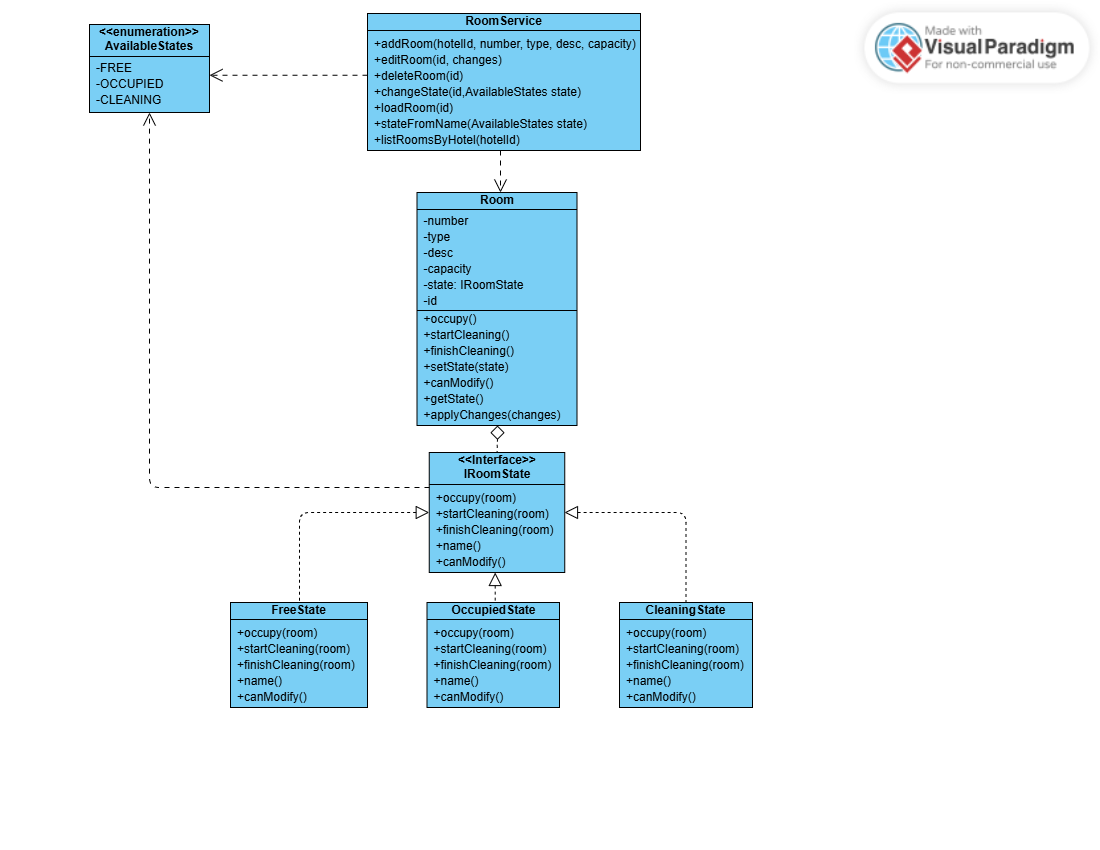
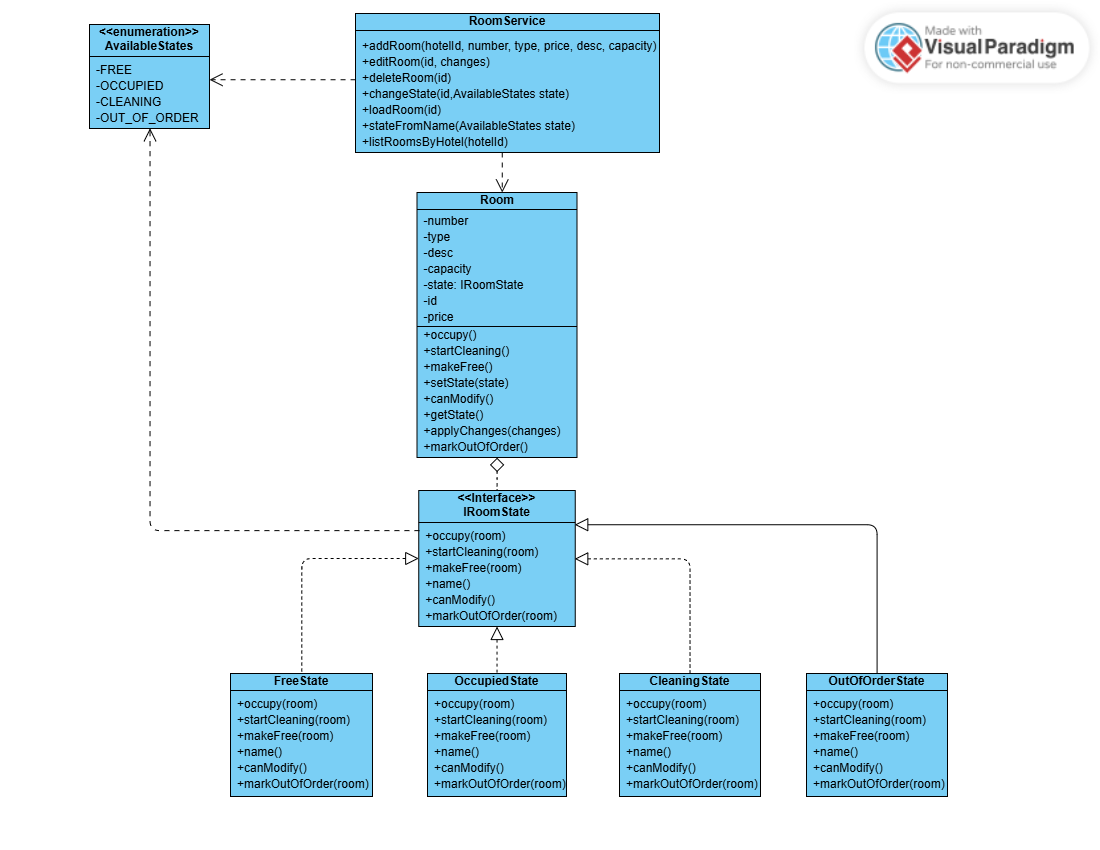
added out_of_order state, room price atribute

diff --git a/room-service/README.md b/room-service/README.md
@@ -7,23 +7,24 @@ Author: Jiri Kadlec
 enum AvailableStates {
   FREE,
   OCCUPIED,
-  CLEANING
+  CLEANING,
+  OUT_OF_ORDER,
 }
 
 class RoomService {
   db; //přístup do databáze
 
-  addRoom(int hotelId, int number, string type, string desc, int capacity) {
+  addRoom(int hotelId, int number, string type, int price, string desc, int capacity) {
     //zápis do databáze, vrácení id
-    id = db.insertRoom(hotelId, number, type, desc, capacity, AvailableStates.FREE);
+    id = db.insertRoom(hotelId, number, type, price, desc, capacity, AvailableStates.FREE);
 
-    room = new Room(id, number, type, desc, capacity, FreeState.instance);
+    room = new Room(id, number, type, price, desc, capacity, FreeState.instance);
     return room;
   }
 
   loadRoom(int id) {
     data = db.selectRoom(id);
-    room = new Room(data.id, data.number, data.type, data.desc, data.capacity, stateFromName(data.state));
+    room = new Room(data.id, data.number, data.type, data.price, data.desc, data.capacity, stateFromName(data.state));
 
     return room;
   }
@@ -32,7 +33,8 @@ class RoomService {
     switch(state) {
     FREE => FreeState.instance,
     OCCUPIED => OccupiedState.instance,
-    CLEANING => CleaningState.instance
+    CLEANING => CleaningState.instance,
+    OUT_OF_ORDER => OutOfOrderState.instance
     };
   }
 
@@ -42,7 +44,7 @@ class RoomService {
       throw InvalidOperationException("Pokoj nelze upravit – není volný");
     }
     room.applyChanges(changes);   // mění atributy, ne stav
-    db.saveRoom(id, room.number, room.type, room.desc, room.capacity, room.getState());
+    db.saveRoom(id, room.number, room.type, room.price, room.desc, room.capacity, room.getState());
   }
 
   deleteRoom(int id) {
@@ -58,9 +60,10 @@ class RoomService {
     switch(state) {
       OCCUPIED => room.occupy(),
       CLEANING => room.startCleaning(),
-      FREE => room.finishCleaning()
+      FREE => room.makeFree(),
+      OUT_OF_ORDER => room.markOutOfOrder()
     };
-    db.saveRoom(id, room.number, room.type, room.desc, room.capacity, room.getState());
+    db.saveRoom(id, room.number, room.type, room.price, room.desc, room.capacity, room.getState());
   }
 
   listRoomsByHotel(int hotelId) {
@@ -70,16 +73,18 @@ class RoomService {
 
 class Room() {
   int id;
-  int number;
-  string type;
-  string desc;
-  int capacity;
+  int number { get; private set; }
+  string type { get; private set; }
+  int price { get; private set; }
+  string desc { get; private set; }
+  int capacity { get; private set; }
   IRoomState state;
 
-  Room(int id, int number, string type, string desc, int capacity, IRoomState state) {
+  Room(int id, int number, string type, int price, string desc, int capacity, IRoomState state) {
     this.id = id;
     this.number = number;
     this.type = type;
+    this.price = price;
     this.desc = desc;
     this.capacity = capacity;
     this.state = state;
@@ -88,7 +93,8 @@ class Room() {
   //delegace
   occupy()         { state.occupy(this); }
   startCleaning()  { state.startCleaning(this); }
-  finishCleaning() { state.finishCleaning(this); }
+  makeFree()       { state.makeFree(this); }
+  markOutOfOrder() { state.markOutOfOrder(this); }
 
   bool canModify() => state.canModify();
 
@@ -98,13 +104,14 @@ class Room() {
 
   AvailableStates getState() => state.name(); //vrátí název stavu (enum AvailableStates)
 
-  applyChanges(changes) { /* number, type, desc, capacity */ }
+  applyChanges(changes) { /* number, type, price, desc, capacity */ }
 }
 
 interface IRoomState {
   occupy(Room room) {}
   startCleaning(Room room) {}
-  finishCleaning(Room room) {}
+  makeFree(Room room) {}
+  markOutOfOrder(Room room) {}
   AvailableStates name();
   bool canModify(); //rozhoduje zda se smí pokoj mazat/upravovat
 }
@@ -124,8 +131,12 @@ class FreeState: IRoomState {
     throw InvalidOperationException("Volný pokoj netřeba uklízet");
   }
 
-  finishCleaning(Room room) {
-    throw InvalidOperationException("Pokoj se neuklízí");
+  makeFree(Room room) {
+    throw InvalidOperationException("Pokoj je již volný");
+  }
+
+  markOutOfOrder(Room room) {
+    room.setState(OutOfOrderState.instance); //volný -> mimo provoz
   }
 }
 
@@ -144,8 +155,12 @@ class OccupiedState: IRoomState {
     room.setState(CleaningState.instance); //obsazený -> uklízený
   }
 
-  finishCleaning(Room room) {
-    throw InvalidOperationException("Pokoj se neuklízí");
+  makeFree(Room room) {
+    throw InvalidOperationException("Pokoj je obsazený, nejprve ukliďte");
+  }
+
+  markOutOfOrder(Room room) {
+    room.setState(OutOfOrderState.instance); //obsazený -> mimo provoz
   }
 }
 
@@ -164,8 +179,36 @@ class CleaningState: IRoomState {
     throw InvalidOperationException("Pokoj se již uklízí");
   }
 
-  finishCleaning(Room room) {
+  makeFree(Room room) {
     room.setState(FreeState.instance); //uklízený -> volný
+  }
+
+  markOutOfOrder(Room room) {
+    room.setState(OutOfOrderState.instance); //uklízený -> mimo provoz
+  }
+}
+
+class OutOfOrderState: IRoomState {
+  public static readonly OutOfOrderState instance = new OutOfOrderState();
+  private OutOfOrderState() {}
+
+  AvailableStates name() => AvailableStates.OUT_OF_ORDER;
+  bool canModify() => true;
+
+  occupy(Room room) {
+    throw InvalidOperationException("Pokoj je mimo provoz, nelze obsadit");
+  }
+
+  startCleaning(Room room) {
+    room.setState(CleaningState.instance); //mimo provoz -> uklízený
+  }
+
+  makeFree(Room room) {
+    room.setState(FreeState.instance); //mimo provoz -> volný
+  }
+
+  markOutOfOrder(Room room) {
+    throw InvalidOperationException("Pokoj je již mimo provoz");
   }
 }
 